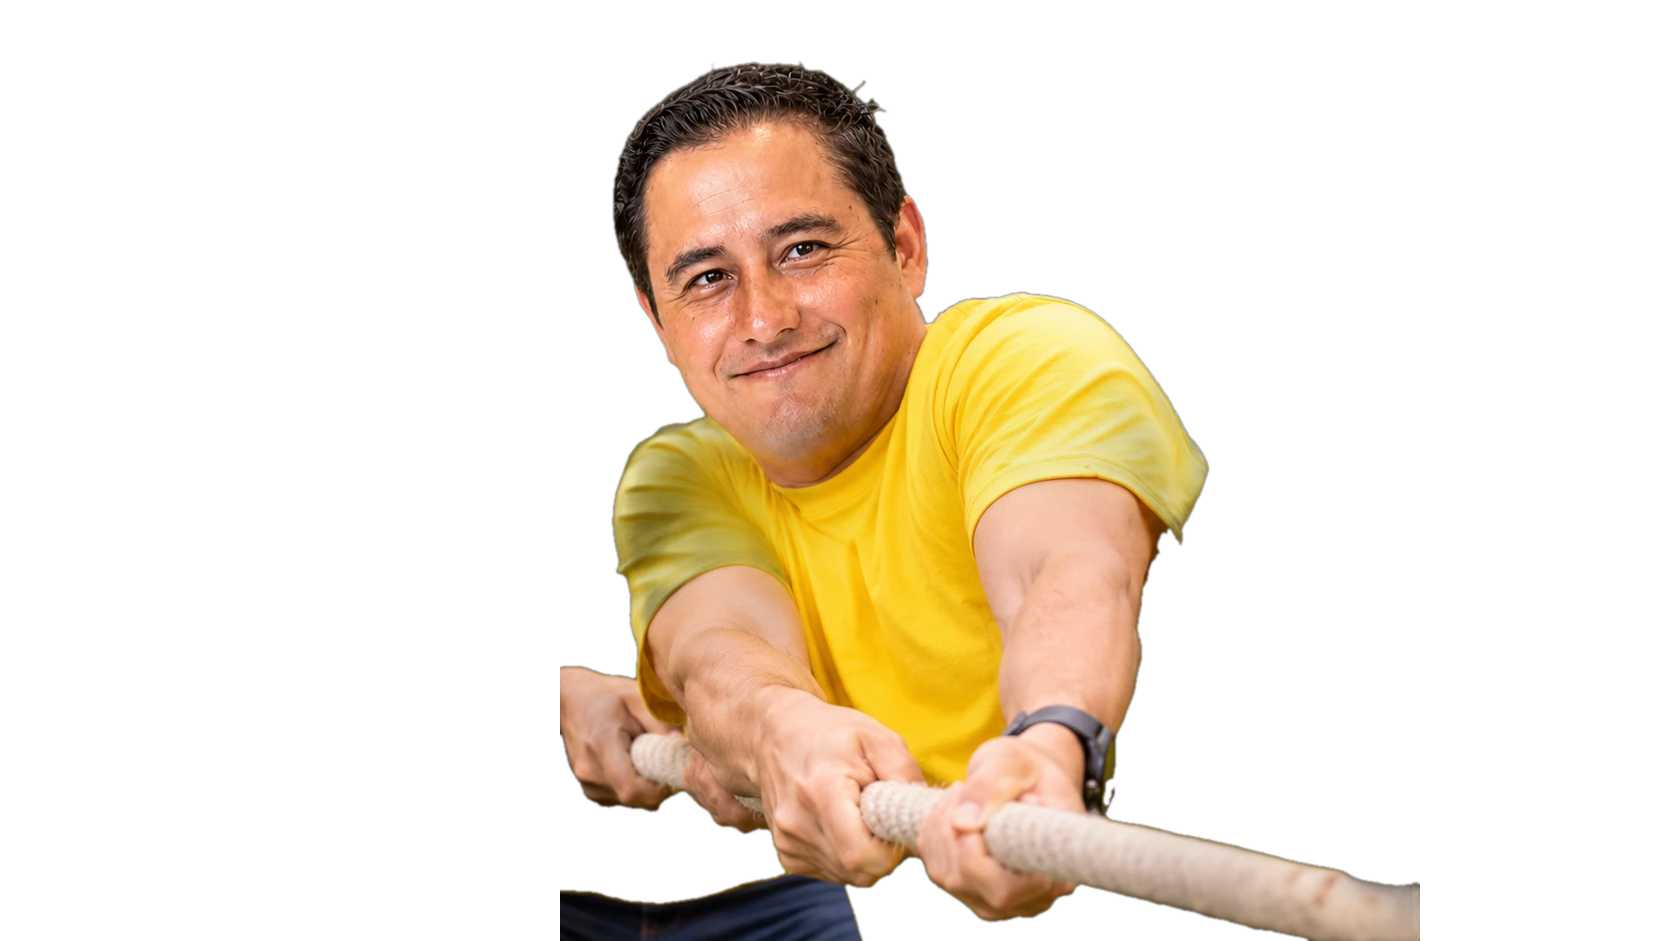
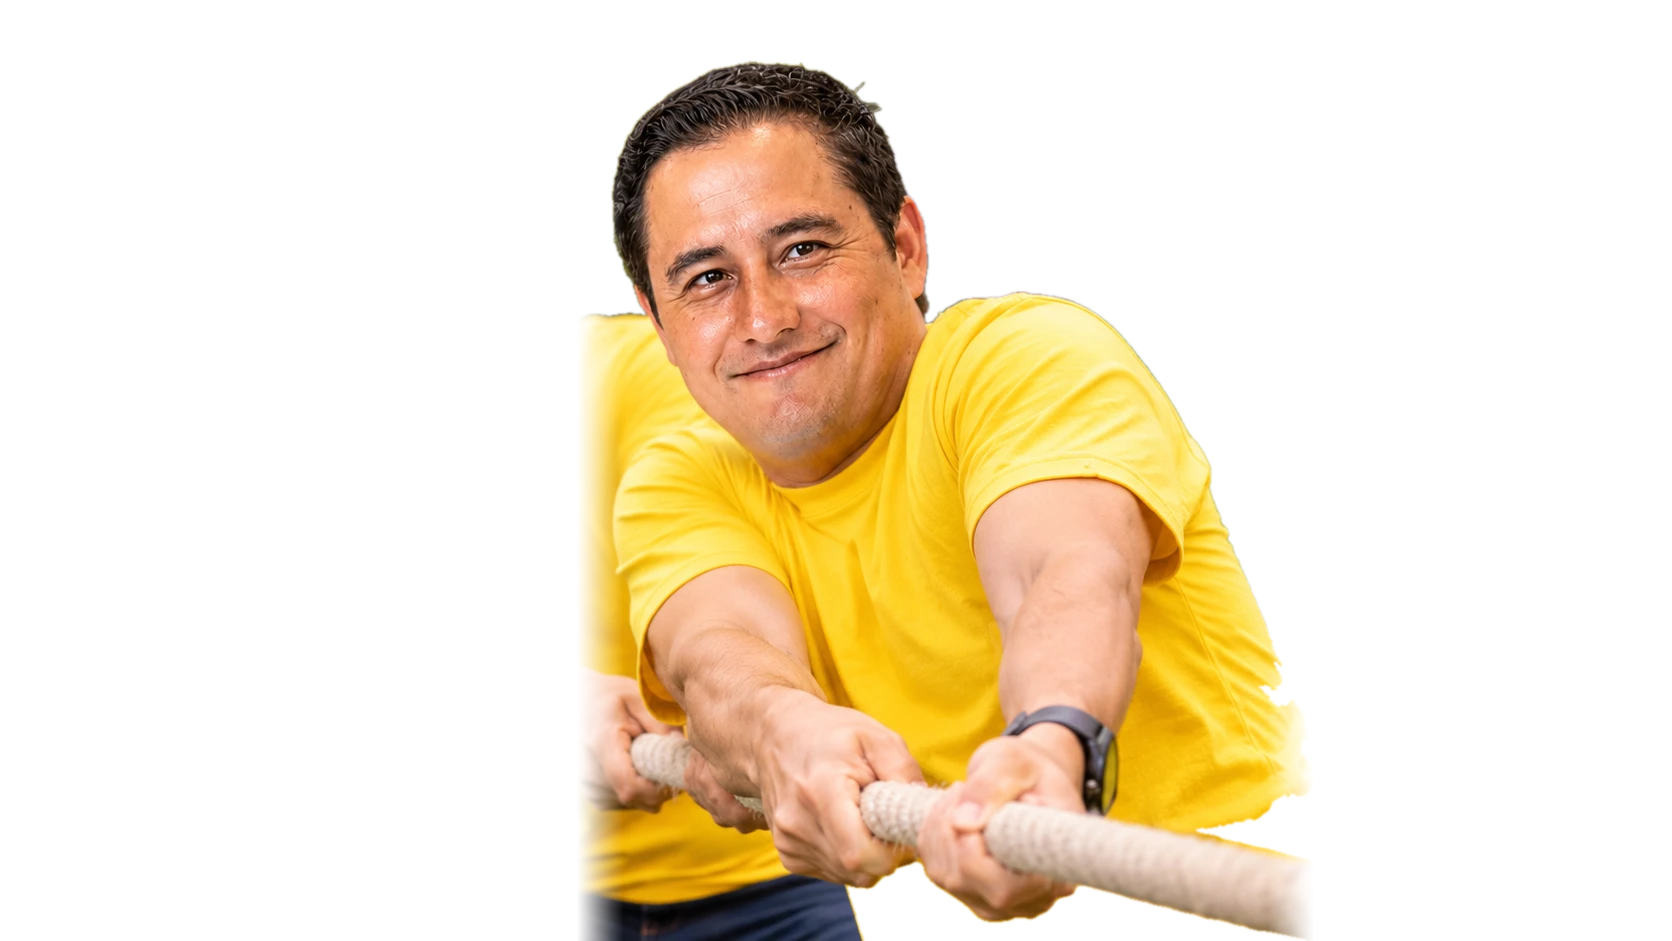
Promo evento: full-body protagonist cutouts, lighter tint, rules and games cards
Claude-Session: https://claude.ai/code/session_01XV7Zhs1JRrkW5hokRDRSy2

diff --git a/videos/promo-encuentro-comunica/index.html b/videos/promo-encuentro-comunica/index.html
@@ -25,8 +25,8 @@
       .ph { position: absolute; left: 0; top: 0; width: 1920px; height: 1080px; transform-origin: 50% 45%; }
       .ph img { position: absolute; inset: 0; width: 1920px; height: 1080px; display: block; }
       /* degradé con transparencia de los 3 colores de COMUNICA: tiñe todo menos al protagonista */
-      .tint { position: absolute; inset: 0; background: linear-gradient(118deg, rgba(244, 187, 26, 0.82) 0%, rgba(26, 166, 212, 0.8) 52%, rgba(54, 192, 196, 0.84) 100%); }
-      .shade { position: absolute; inset: 0; background: linear-gradient(0deg, rgba(10, 40, 60, 0.55) 0%, rgba(10, 40, 60, 0) 38%); }
+      .tint { position: absolute; inset: 0; background: linear-gradient(118deg, rgba(244, 187, 26, 0.34) 0%, rgba(26, 166, 212, 0.3) 52%, rgba(54, 192, 196, 0.36) 100%); }
+      .shade { position: absolute; inset: 0; background: linear-gradient(0deg, rgba(10, 40, 60, 0.75) 0%, rgba(10, 40, 60, 0.25) 42%, rgba(10, 40, 60, 0) 60%); }
       /* título gigante detrás de la persona */
       .big { position: absolute; left: 0; top: 46px; width: 1920px; text-align: center; font-weight: 900; font-stretch: 115%; font-size: 250px; line-height: 1; letter-spacing: -0.01em; color: #fff; white-space: nowrap; text-shadow: 0 10px 40px rgba(0, 40, 70, 0.25); }
       .pop { position: absolute; inset: 0; filter: drop-shadow(0 20px 30px rgba(0, 30, 50, 0.35)); }
@@ -36,12 +36,20 @@
       .kick { display: inline-block; padding: 8px 22px 10px; background: #fff; color: var(--ink); font-weight: 800; font-size: 30px; letter-spacing: 0.18em; }
       .line { margin-top: 14px; font-weight: 700; font-size: 44px; line-height: 1.15; text-shadow: 0 4px 22px rgba(0, 30, 50, 0.45); }
       .line b { font-weight: 900; color: #fff6cf; }
+      .stat { flex: 1; background: rgba(255, 255, 255, 0.95); color: var(--ink); border-radius: 26px; padding: 26px 30px 30px; box-shadow: 0 18px 40px rgba(0, 40, 70, 0.22); }
+      .stat .n { font-weight: 900; font-stretch: 112%; font-size: 150px; line-height: 0.9; color: var(--blue); }
+      .stat:nth-child(odd) .n { color: #e0a400; }
+      .stat .l { margin-top: 10px; font-weight: 800; font-size: 40px; line-height: 1.1; }
+      .game { display: flex; align-items: center; gap: 26px; background: rgba(255, 255, 255, 0.95); color: var(--ink); border-radius: 22px; padding: 22px 30px; font-weight: 800; font-size: 52px; box-shadow: 0 14px 34px rgba(0, 40, 70, 0.2); }
+      .game i { font-style: normal; flex: none; width: 84px; height: 84px; border-radius: 50%; display: flex; align-items: center; justify-content: center; color: #fff; font-weight: 900; font-size: 50px; background: var(--blue); }
+      .game:nth-child(3n + 1) i { background: #e0a400; }
+      .game:nth-child(3n) i { background: var(--teal); }
       .dot { position: absolute; border-radius: 50%; mix-blend-mode: multiply; }
     </style>
   </head>
   <body>
-    <div id="root" data-composition-id="main" data-start="0" data-duration="40" data-width="1920" data-height="1080">
-      <div id="stage" class="clip" data-start="0" data-duration="40" data-track-index="0">
+    <div id="root" data-composition-id="main" data-start="0" data-duration="54" data-width="1920" data-height="1080">
+      <div id="stage" class="clip" data-start="0" data-duration="54" data-track-index="0">
         <!-- Intro: logo Premios Comunica -->
         <div class="scene" id="s0" style="background: #fff">
           <img id="banner" src="assets/fotos/banner.webp" alt="Premios Comunica 2026" style="position: absolute; left: 60px; top: 150px; width: 1800px" />
@@ -58,6 +66,40 @@
           <div class="pop" id="q1b" style="opacity: 0"><div class="ph"><img src="assets/fotos/cuerda-pop.png" alt="" /></div></div>
           <div class="shade"></div>
           <div class="info"><div class="kick">01</div><div class="ttl">Competencias</div><div class="line">Seremos <b>sorteados por colores</b> para armar equipos y participar en dinámicas grupales</div></div>
+        </div>
+
+        <!-- Reglas de las competencias -->
+        <div class="scene" id="sR">
+          <div class="ph" style="filter: blur(6px) saturate(1.1)"><img src="assets/fotos/cuerda.webp" alt="" /></div>
+          <div class="layer" style="background: linear-gradient(118deg, rgba(244, 187, 26, 0.86) 0%, rgba(26, 166, 212, 0.86) 52%, rgba(54, 192, 196, 0.88) 100%)"></div>
+          <div class="kick" style="position: absolute; left: 110px; top: 90px">01 · COMPETENCIAS</div>
+          <div class="ttl" style="position: absolute; left: 110px; top: 150px; font-size: 104px">¿Cómo participamos?</div>
+          <div id="stats" style="position: absolute; left: 110px; right: 110px; top: 340px; display: flex; gap: 40px">
+            <div class="stat"><div class="n">10</div><div class="l">equipos</div></div>
+            <div class="stat"><div class="n">10+</div><div class="l">integrantes<br />por equipo</div></div>
+            <div class="stat"><div class="n">1</div><div class="l">color<br />por equipo</div></div>
+            <div class="stat"><div class="n">10</div><div class="l">puntos<br />por juego</div></div>
+          </div>
+          <div id="rules" style="position: absolute; left: 110px; right: 110px; top: 720px">
+            <div class="line" style="font-size: 46px; margin: 0">Todos participan <b>al menos en un juego</b>.</div>
+            <div class="line" style="font-size: 46px">El equipo con más puntos gana <b>un premio para cada integrante</b>.</div>
+          </div>
+        </div>
+
+        <!-- Los juegos -->
+        <div class="scene" id="sJ">
+          <div class="ph" style="filter: blur(6px)"><img src="assets/fotos/sacos.webp" alt="" /></div>
+          <div class="layer" style="background: linear-gradient(118deg, rgba(244, 187, 26, 0.86) 0%, rgba(26, 166, 212, 0.86) 52%, rgba(54, 192, 196, 0.88) 100%)"></div>
+          <div class="kick" style="position: absolute; left: 110px; top: 90px">01 · COMPETENCIAS</div>
+          <div class="ttl" style="position: absolute; left: 110px; top: 150px; font-size: 104px">Los juegos</div>
+          <div id="games" style="position: absolute; left: 110px; right: 110px; top: 330px; display: grid; grid-template-columns: 1fr 1fr; gap: 26px 40px">
+            <div class="game"><i>1</i>Carrera de ensacados</div>
+            <div class="game"><i>2</i>Carrera de carretillas</div>
+            <div class="game"><i>3</i>¿Quién deja caer el huevo?</div>
+            <div class="game"><i>4</i>Halar la cuerda</div>
+            <div class="game"><i>5</i>Carrera de 3 piernas</div>
+            <div class="game"><i>6</i>Baile de la silla</div>
+          </div>
         </div>
 
         <!-- Premios -->
@@ -110,7 +152,7 @@
     <script>
       const tl = gsap.timeline({ paused: true });
       const show = (sel, a, b) => { tl.set(sel, { visibility: "visible" }, a); if (b != null) tl.set(sel, { visibility: "hidden" }, b); };
-      const T = [0, 5, 13, 19.5, 26, 32.5, 40];
+      const T = [0, 5, 27, 33.5, 40, 46.5, 54]; // 13–20 reglas · 20–27 juegos
 
       /* transición: círculo de color que se abre y se cierra (los 3 círculos de COMUNICA) */
       const wipe = (at) => {
@@ -134,8 +176,15 @@
       tl.to("#banner", { scale: 1.04, duration: 3, ease: "sine.inOut" }, 1.4);
 
       /* Competencias: sacos → cuerda */
-      wipe(T[1]); show("#s1", T[1], T[2]);
-      photoScene(1, T[1], T[2], "#q1a");
+      wipe(T[1]); show("#s1", T[1], 13);
+      photoScene(1, T[1], 13, "#q1a");
+      wipe(13); show("#sR", 13, 20);
+      tl.fromTo("#sR .ttl", { x: -80, opacity: 0 }, { x: 0, opacity: 1, duration: 0.7, ease: "power3.out" }, 13.2);
+      tl.fromTo("#stats .stat", { y: 120, opacity: 0, scale: 0.85 }, { y: 0, opacity: 1, scale: 1, duration: 0.7, ease: "back.out(1.7)", stagger: 0.25 }, 13.6);
+      tl.fromTo("#rules .line", { x: -60, opacity: 0 }, { x: 0, opacity: 1, duration: 0.6, ease: "power3.out", stagger: 0.6 }, 15.0);
+      wipe(20); show("#sJ", 20, 27);
+      tl.fromTo("#sJ .ttl", { x: -80, opacity: 0 }, { x: 0, opacity: 1, duration: 0.7, ease: "power3.out" }, 20.2);
+      tl.fromTo("#games .game", { x: -100, opacity: 0 }, { x: 0, opacity: 1, duration: 0.55, ease: "back.out(1.6)", stagger: 0.3 }, 20.6);
       tl.to(["#q1a"], { opacity: 0, duration: 0.5 }, 8.8);
       tl.to(["#p1b", "#q1b"], { opacity: 1, duration: 0.5 }, 8.8);
       tl.fromTo("#q1b .ph", { scale: 1.08, y: 30 }, { scale: 1.02, y: 0, duration: 4.2, ease: "sine.out", immediateRender: false }, 8.8);
